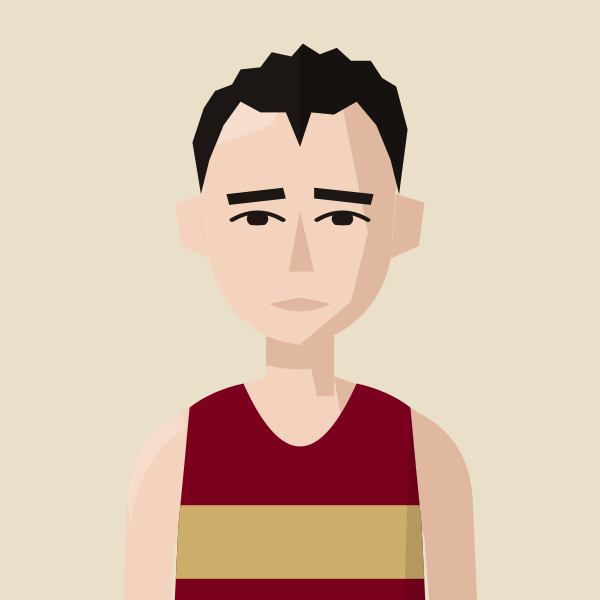
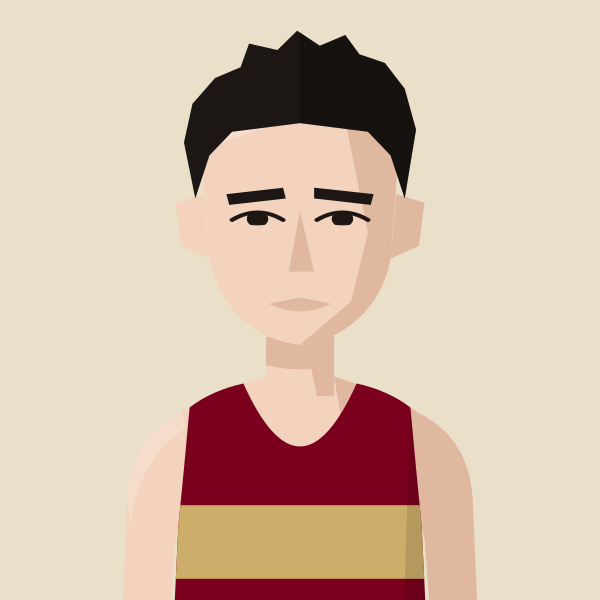
Portraits: tousled hair for Fintan Pearce
Claude-Session: https://claude.ai/code/session_01MgmDWhFqnSSnP4iBLKXUZC

Changed region(s): [[0.3, 0.03, 0.69, 0.33]]

diff --git a/tools/gen_portraits.py b/tools/gen_portraits.py
@@ -334,7 +334,7 @@ save("ryan", figure("BEL", skin=1, hair="quiff", hair_colour="light brown"))
 save("mccolgan", figure("THH", skin=1, hair="shortcurls", hair_colour="light brown"))
 save("collier", figure("KEN", skin=1, hair="crop", hair_colour="#B07A4A", facial="stubble", facial_colour="#B5652E"))
 save("green", figure("HOL", skin=1, hair="crop", hair_colour="dark brown", facial="stubble"))
-save("pearce", figure("BEL", skin=1, hair="shortcurls", hair_colour="black"))
+save("pearce", figure("BEL", skin=1, hair="tousled", hair_colour="black"))
 save("shaw", figure("HHH", skin=1, hair=None))
 save("tyas", figure("BEL", skin=1, hair="tousled", hair_colour="dark brown", facial="stubble"))
 save("austin", figure("HHH", skin=2, hair="crop", hair_colour="mid brown", facial="beard", cap="#A7A9A6"))
